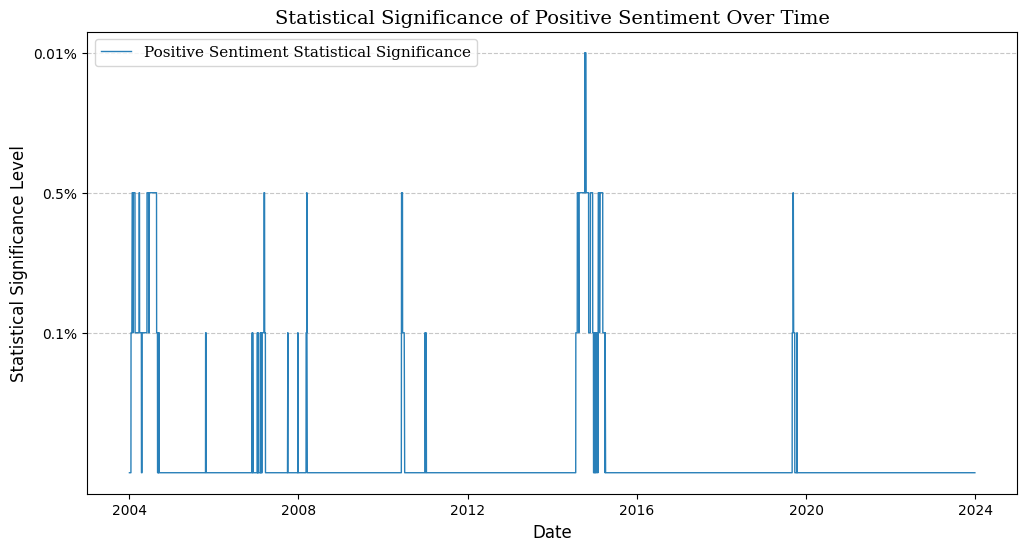
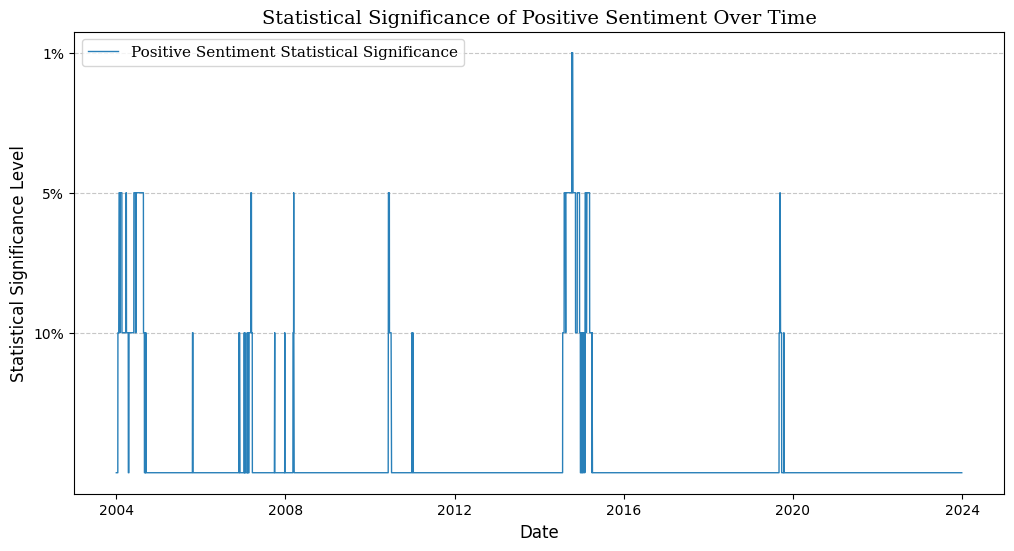
fixed labels

diff --git a/Show_significance_time_series.py b/Show_significance_time_series.py
@@ -51,7 +51,7 @@ plt.gca().xaxis.set_major_formatter(mdates.DateFormatter('%Y'))
 plt.legend(fontsize=11, loc='upper left', prop={'family': 'serif', 'size': 11})
 plt.xlabel('Date', fontsize=12)
 plt.ylabel('Statistical Significance Level', fontsize=12)
-plt.yticks([1, 2, 3], ['0.1%', '0.5%', '0.01%'])
+plt.yticks([1, 2, 3], ['10%', '5%', '1%'])
 plt.grid(axis='y', linestyle='--', alpha=0.7)
 plt.tick_params(axis='both', which='major', labelsize=10)
 plt.savefig('Plots/Positive_Sentiment_Significance.png', bbox_inches='tight')
@@ -65,7 +65,7 @@ plt.gca().xaxis.set_major_formatter(mdates.DateFormatter('%Y'))
 plt.legend(fontsize=11, loc='upper left', prop={'family': 'serif', 'size': 11})
 plt.xlabel('Date', fontsize=12)
 plt.ylabel('Statistical Significance Level', fontsize=12)
-plt.yticks([1, 2, 3], ['0.1%', '0.5%', '0.01%'])
+plt.yticks([1, 2, 3], ['10%', '5%', '1%'])
 plt.grid(axis='y', linestyle='--', alpha=0.7)
 plt.tick_params(axis='both', which='major', labelsize=10)
 plt.savefig('Plots/Negative_Sentiment_Significance.png', bbox_inches='tight')
@@ -79,7 +79,7 @@ plt.gca().xaxis.set_major_formatter(mdates.DateFormatter('%Y'))
 plt.legend(fontsize=11, loc='upper left', prop={'family': 'serif', 'size': 11})
 plt.xlabel('Date', fontsize=12)
 plt.ylabel('Statistical Significance Level', fontsize=12)
-plt.yticks([1, 2, 3], ['0.1%', '0.5%', '0.01%'])
+plt.yticks([1, 2, 3], ['10%', '5%', '1%'])
 plt.grid(axis='y', linestyle='--', alpha=0.7)
 plt.tick_params(axis='both', which='major', labelsize=10)
 plt.savefig('Plots/Article_Count_Significance.png', bbox_inches='tight')
